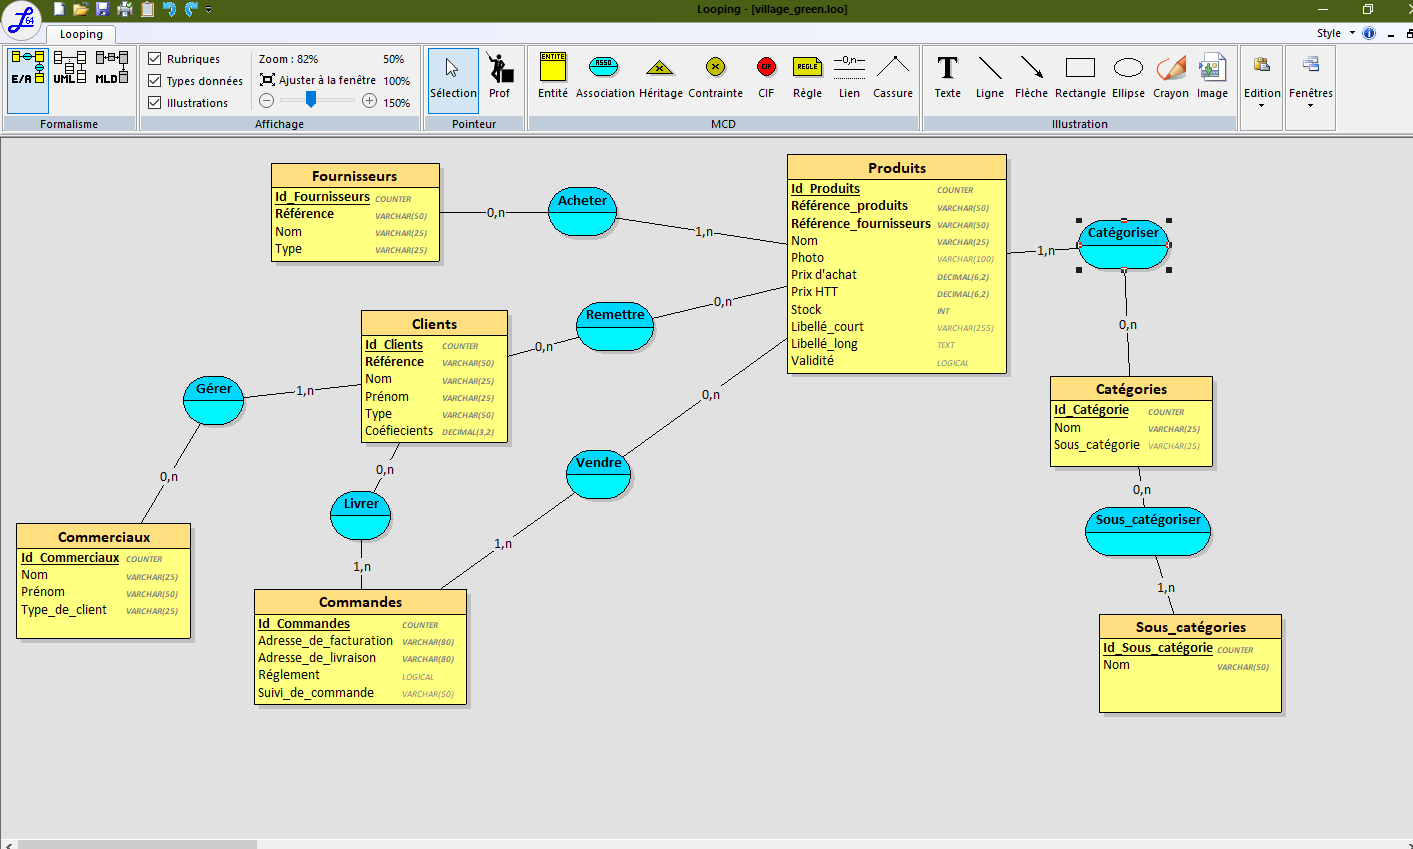
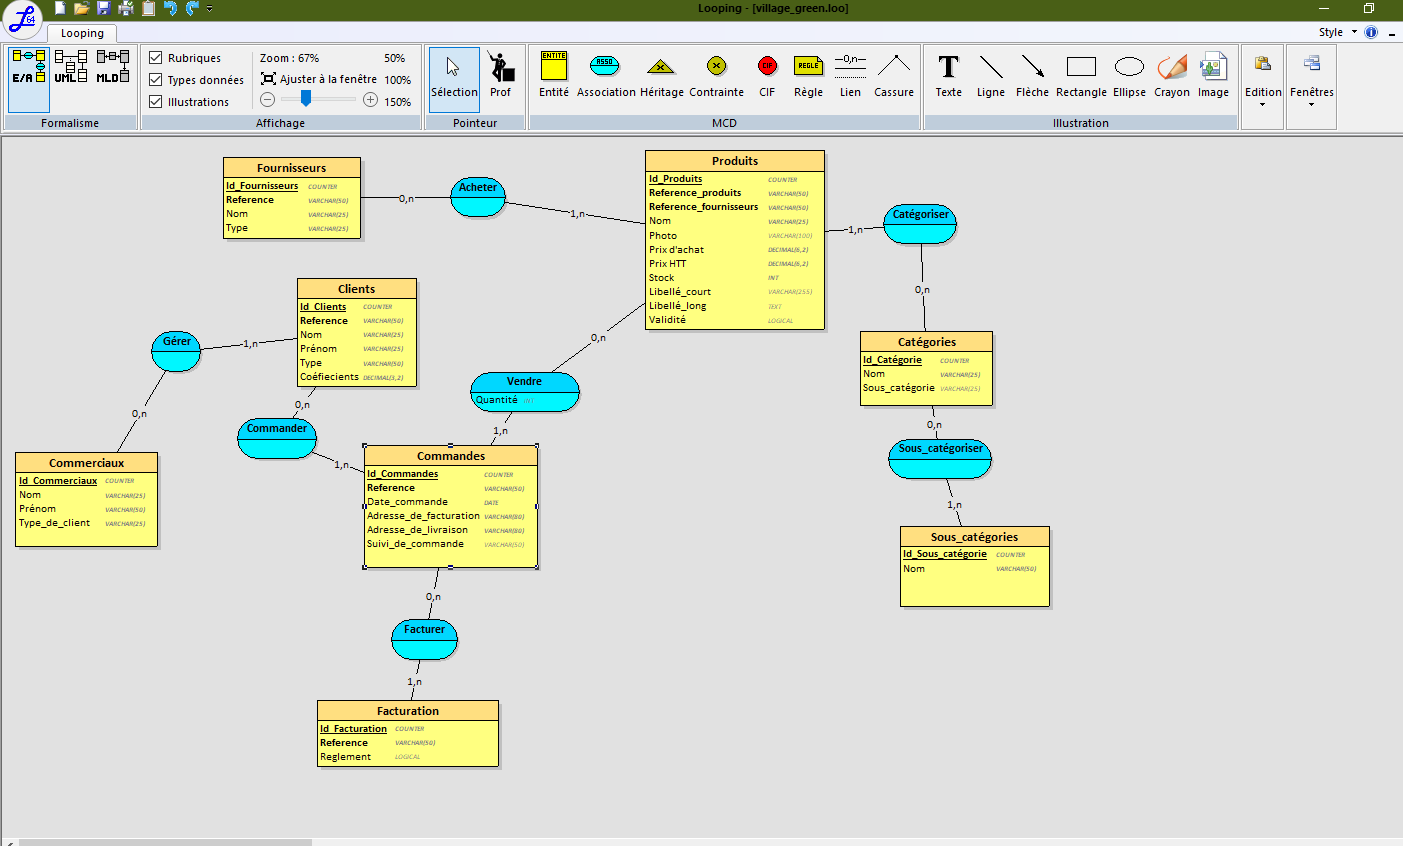
Ajout de l'entité Facturation
Modifcation du fichier Dicitionnaires_des_donnees.odt, fichier
README.md, village_bdd_screen.png, village_green.loo
Ajout dans le modele de BDD de l'entité facturation et supression de la
liaison entre les entités "Clients" et "Produits"

diff --git a/village_green/README.md b/village_green/README.md
@@ -14,17 +14,17 @@ Liste des données
     • Prix de vente HTT
     • Commercial 
     • Clients particuliers
-    • Clients professionnels
-    • Paiement 
-    • Noté le paiement en différé ou non
-    • Facture
+    • Clients professionnels 
+    • Noté le paiement en différé ou non 
     • Commande
     • Référence Client
     • Réduction prix 
 
 Table
+
 	 
-	Client 
+
+	Clients 
 
     • Nom (VARCHAR 25 NOT NUL)
     • Prénom (VARCHAR 25 NOT NUL)
@@ -33,7 +33,7 @@ Table
     • Coéficients (DEC 3,2 NOT NUL)
 
 
-	Produit 
+	Produits 
 
     • Nom (VARCHAR 25 NOT NUL)
     • Photo (VARCHAR 100 NOT NUL)
@@ -46,6 +46,9 @@ Table
     • Libellé long (TEXT)
     • Validité (LOGIGAL NOT NUL)
  
+
+	
+
 
 	Fournisseurs 
 
@@ -75,11 +78,17 @@ Table
 	Commandes 
 
     • Adresse de facturation (VARCHAR 80 NOT NUL)
+    • Data de livraison (DATE)
+    • Référence (VARCHAR 50)
     • Adresse de livraison (VARCHAR 80 NOT NUL)
-    • Règlement (BOOLEAN NOT NUL)
     • Suivi de commande (VARCHAR 25 NOT NUL)
- 
 
+	Facturation 
+
+    • Référence (VARCHAR 80 NOT NUL)
+    • Réglement (LOGICAL	)
+      
+ 
  Relation 
 
 
@@ -87,14 +96,15 @@ Table
     • Lien de «Produits » à « Catégories »
     • Lien de « Produits » à « Commandes » 
     • Lien de « Produits » à « Fournisseurs »
-    • Lien de « Produits » à « Clients »
-    • Lien de «Catégorie» à « Sous-Catégories » 
+    • Lien de « Commandes » à « Facturation »
+    • Lien de « Catégorie » à « Sous-Catégories » 
     • Lien de « Commerciaux » à « Clients »
     • Lien de « Clients » à « Commandes »
       
-      
+
       
 Ordre de création des tables 
 
 
-    • Fournisseurs > Catégorie > Sous catégorie > Produit > Commerciaux > Clients > Commandes
+    • Fournisseurs > Catégorie > Sous catégorie > Produit > Commerciaux > Clients >  ...
+    •  … > Commande > Facturation
